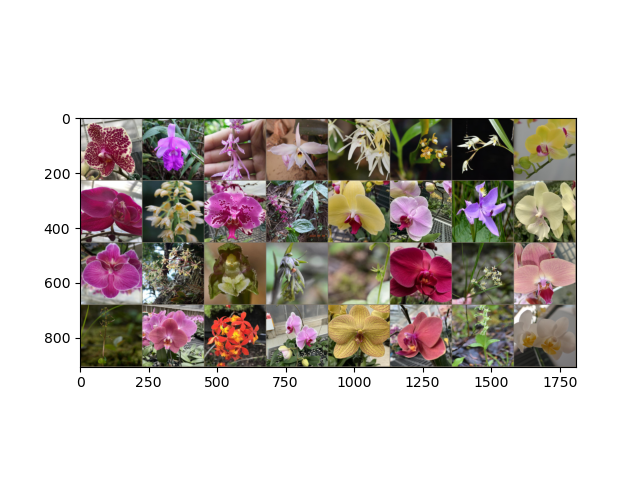
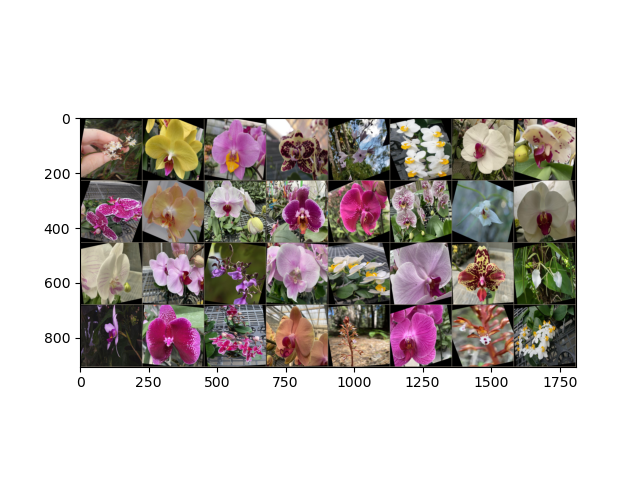
隨機翻轉+隨機旋轉+normalize

diff --git a/hw2.py b/hw2.py
@@ -57,8 +57,10 @@ data_transforms = {
               # transforms.RandomVerticalFlip(p=0.5),
               # transforms.RandomRotation(degrees=(0,30)),
             # ]),
+            # # transforms.CenterCrop((480,480)),
             # transforms.CenterCrop((480,480)),
-            transforms.CenterCrop((480,480)),
+            torchvision.transforms.RandomHorizontalFlip(p=0.5),
+            torchvision.transforms.RandomRotation(20),
             transforms.Resize((224,224) ),
 
             ########################################
